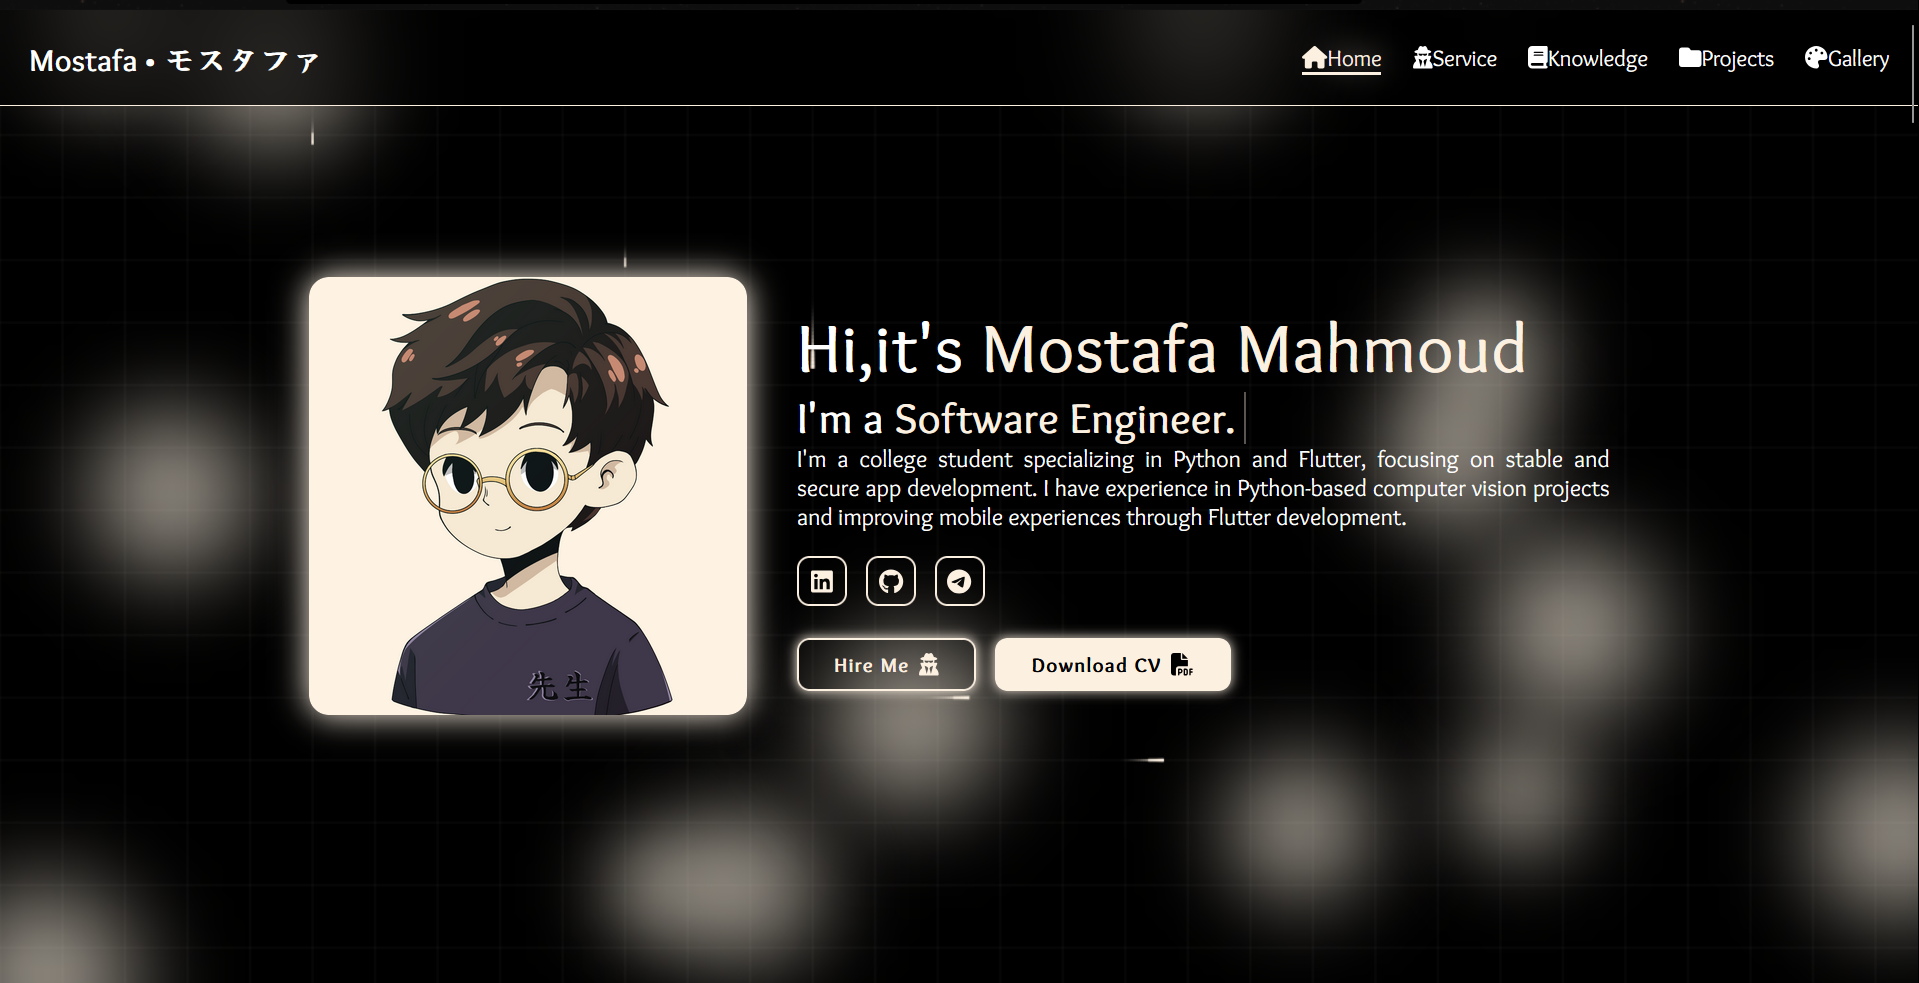
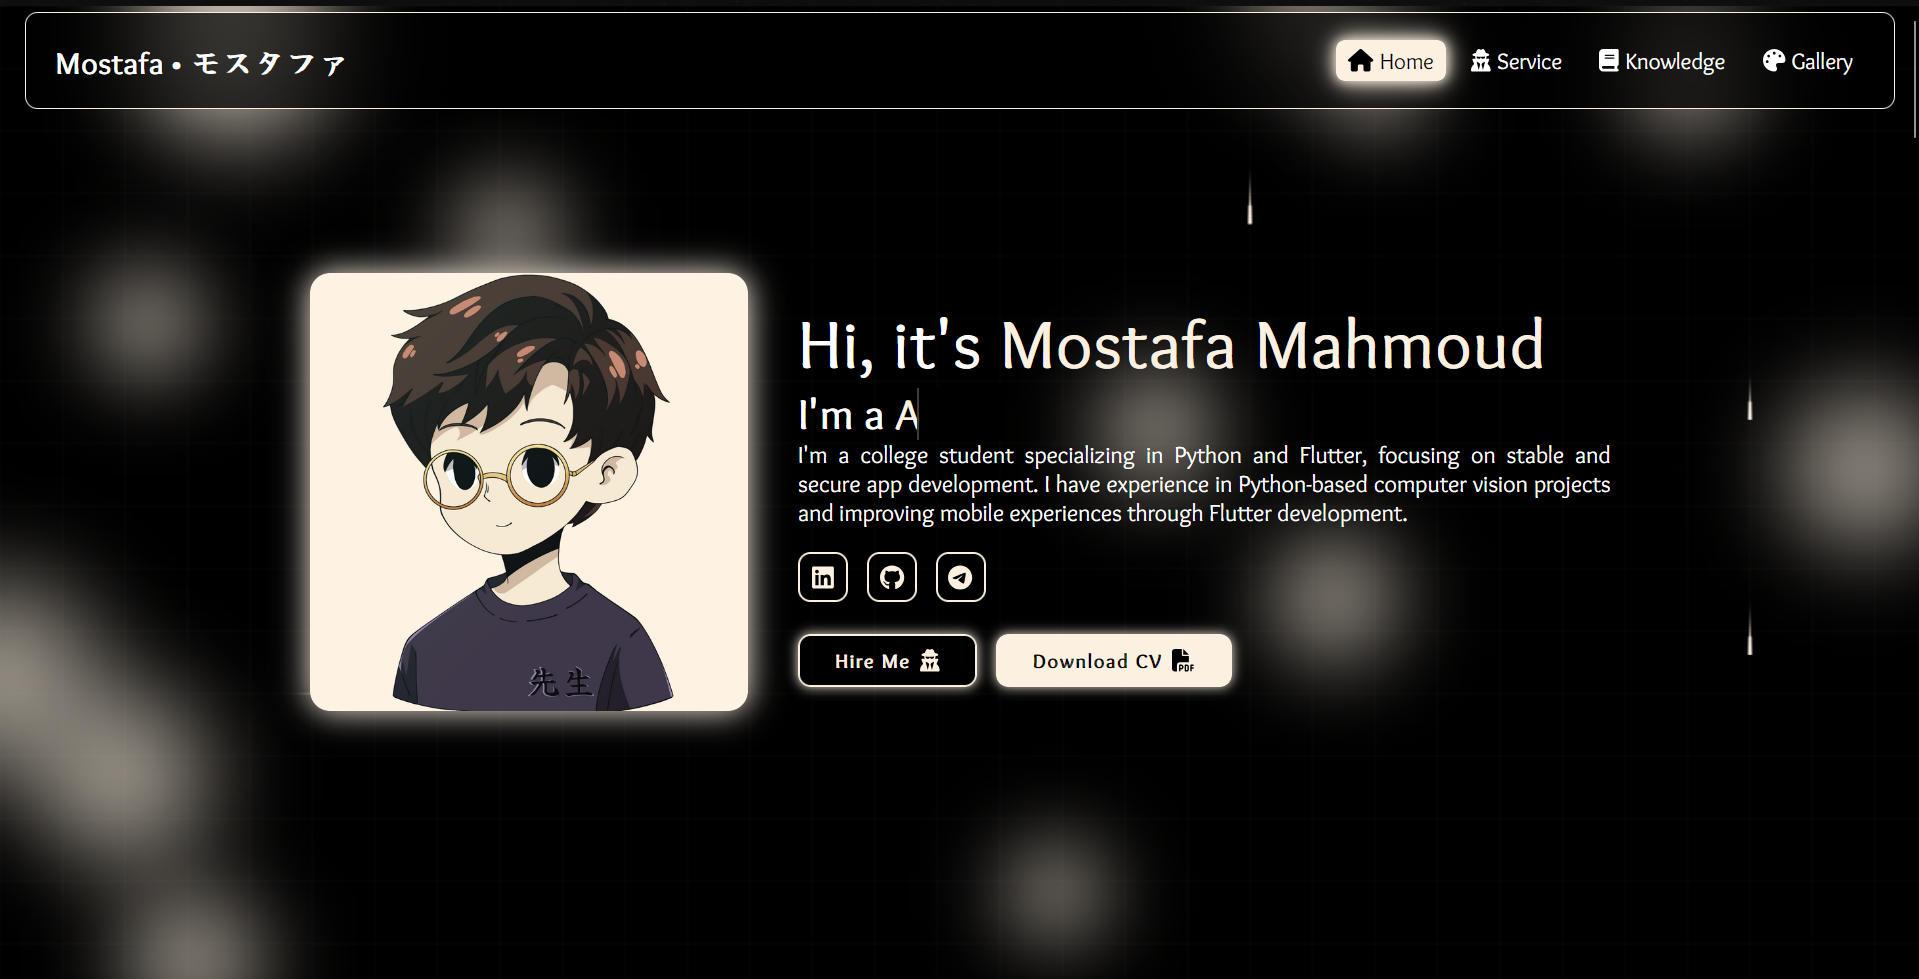
Design a New Responsive Header Component. Add New Artwork to My Gallery. Fix Error in Python Script: I forgot to delete some lines of code last time(●'◡'●), which overwrote the sensei-art.tsx file.

diff --git a/app/com/header/sensei-header.module.css b/app/com/header/sensei-header.module.css
@@ -1,23 +1,26 @@
-
 /*
  * sensei-header.module.css
  *@Author Mostafa Sensei106
- *@Description A responsive header component with a menu that highlights the active section of the page.
+ *@Description A modern silver-themed floating navbar with enhanced animations
  */
 
 .header {
     position: fixed;
-    top: 0;
-    left: 0;
-    width: 100%;
+    top: 0.5rem;
+    left: 50%;
+    transform: translateX(-50%);
+    width: calc(100% - 4rem);
+    max-width: 100%;
     padding: 2rem 1.5%;
     background: rgba(0, 0, 0, 0.7);
     backdrop-filter: blur(20px);
+    border-radius: 1rem;
     display: flex;
     justify-content: space-between;
     align-items: center;
     z-index: 100;
-    border-bottom: 1px solid  var(--main-color);
+    transition: all 0.4s cubic-bezier(0.68, -0.55, 0.27, 1.55);
+    border: 1px solid rgb(252, 240, 225);
 }
 
 .logo {
@@ -26,31 +29,67 @@
     color: var(--text-color);
     font-weight: 800;
     cursor: pointer;
-    transition: transform 0.5s ease;
-}
-
-.logo span {
-    color: var(--text-color);
+    transition: all 0.3s ease;
+    will-change: transform, text-shadow;
 }
 
 .logo:hover {
-    /*transform: scale(1.1);*/
-    text-shadow: 0 0 25px var(--main-color);
+    text-shadow: 0 0 30px var(--main-color), 0 0 10px var(--main-color);
+}
+
+.navbar {
+    display: flex;
+    align-items: center;
+    gap: 1rem;
 }
 
 .navbar a {
     font-size: 1.8rem;
     color: var(--text-color);
-    margin-left: 2.5rem;
+    padding: 0.5rem 1rem;
+    border-radius: 0.7rem;
     font-weight: 500;
-    transition: color 0.3s ease, border-bottom 0.3s ease;
+    transition: all 0.4s ease-in-out;
+    display: flex;
+    align-items: center;
+    gap: 0.5rem;
+    position: relative;
+    overflow: hidden;
+    will-change: background, color, box-shadow;
 }
 
-.navbar a.active,
-.navbar a:hover {
-    color: var(--main-color);
-    text-shadow: 0 0 25px var(--main-color);
-    border-bottom: 3px solid var(--main-color);
+.navbar a::before {
+    content: '';
+    position: absolute;
+    top: 0;
+    left: -100%;
+    width: 100%;
+    height: 100%;
+    background: linear-gradient(120deg, transparent, var(--main-color), transparent);
+    transition: left 0.4s ease-in-out;
+}
+
+.navbar a:hover::before {
+    left: 100%;
+}
+
+.navbar a:hover,
+.navbar a.active {
+    background: var(--main-color);
+    color: var(--bg-color);
+    box-shadow: 0 0 20px var(--main-color), 0 0 10px var(--main-color);
+}
+
+.navbar a .icon {
+    color: var(--text-color);
+    will-change: transform, color;
+    transition: transform 0.4s ease, color 0.4s ease;
+}
+
+.navbar a:hover .icon,
+.navbar a.active .icon {
+    transform: rotate(360deg);
+    color: var(--bg-color);
 }
 
 .MenuIcon {
@@ -101,7 +140,13 @@
     transform: rotate(-135deg);
 }
 
+
 @media (max-width: 994px) {
+    .header {
+        width: calc(100% - 2rem);
+        padding: 2rem 2%;
+    }
+
     .MenuIcon {
         display: block;
     }
@@ -110,28 +155,73 @@
         position: absolute;
         top: 100%;
         right: 0;
-        width: 40%;
-        border-left: 3px solid var(--main-color);
-        padding: 1rem 3%;
+        width: 100%;
+        border: 2px solid var(--main-color);
         background: rgba(0, 0, 0, 0.7);
-        border-top: 1px solid var(--main-color);
         backdrop-filter: blur(20px);
-        border-bottom-left-radius: 1rem;
+        border-radius: 1rem;
         display: none;
+        opacity: 0;
+        transform: translateY(-25px);
+        margin-top: 0.5rem;
+        transition: opacity 0.3s ease, transform 0.4s ease-in-out;
     }
 
     .navbar.active {
         display: block;
+        opacity: 1;
+        transform: translateY(0);
+        animation: slideIn 0.4s ease forwards;
     }
 
     .navbar a {
-        display: block;
-        font-size: 2rem;
-        margin: 3rem 0;
+        display: flex;
+        align-items: center;
+        font-size: 2.1rem;
+        margin: 2.5rem;
+        opacity: 0;
+        padding: 1rem;
+        transform: translateX(-20px);
+        transition: opacity 0.3s ease, transform 0.3s ease;
     }
 
-    .navbar:hover,
-    .navbar.active {
-        border-bottom: 0.3rem solid var(--main-color);
+    .navbar.active a {
+        opacity: 1;
+        transform: translateX(0);
+    }
+
+    .navbar.active a:nth-child(1) {
+        animation: slideInLeft 0.5s ease 0.1s forwards;
+    }
+    .navbar.active a:nth-child(2) {
+        animation: slideInLeft 0.5s ease 0.2s forwards;
+    }
+    .navbar.active a:nth-child(3) {
+        animation: slideInLeft 0.5s ease 0.3s forwards;
+    }
+    .navbar.active a:nth-child(4) {
+        animation: slideInLeft 0.5s ease 0.4s forwards;
+    }
+}
+
+@keyframes slideIn {
+    from {
+        opacity: 0;
+        transform: translateY(-20px);
+    }
+    to {
+        opacity: 1;
+        transform: translateY(0);
+    }
+}
+
+@keyframes slideInLeft {
+    from {
+        opacity: 0;
+        transform: translateX(-20px);
+    }
+    to {
+        opacity: 1;
+        transform: translateX(0);
     }
 }

diff --git a/app/com/header/sensei-header.tsx b/app/com/header/sensei-header.tsx
@@ -6,49 +6,29 @@ import {
     faHome,
     faUserSecret,
     faBook,
-    // faFolder,
     faPalette
 } from '@fortawesome/free-solid-svg-icons';
 import { IconProp } from '@fortawesome/fontawesome-svg-core';
 
-
-//**
-// @Author Mostafa Sensei106
-// @Description A responsive header component with a menu that highlights the active section of the page.
-//**
-
 /**
- * The main header component with a responsive menu.
+ * The main header component with a responsive menu and enhanced animations.
  * @returns The JSX Element for the header.
  */
 const SenseiHeader = (): JSX.Element => {
-    /**
-     * The state of the menu, whether it is open or closed.
-     */
     const [isMenuOpen, setIsMenuOpen] = useState<boolean>(false);
-
-    /**
-     * The state of the active section, which is the section that is currently in view.
-     */
     const [activeSection, setActiveSection] = useState<string>('Home');
 
-    /**
-     * Toggle the menu.
-     */
     const toggleMenu = (): void => {
         setIsMenuOpen((prevState) => !prevState);
     };
 
-    /**
-     * Handle the scroll event to determine the active section based on scroll position.
-     */
     const handleScroll = (): void => {
         const sections: Array<string> = [
             'Home',
             'Service',
             'Knowledge',
-            // 'Projects',
-            'Gallery'];
+            'Gallery'
+        ];
         const current: string | undefined = sections.find((section) => {
             const element = document.getElementById(section);
             if (element) {
@@ -79,7 +59,6 @@ const SenseiHeader = (): JSX.Element => {
 
     useEffect(() => {
         const handleResize = (): void => {
-            // Close the menu if the window is resized beyond the defined width
             if (window.innerWidth > 994 && isMenuOpen) {
                 setIsMenuOpen(false);
             }
@@ -89,12 +68,10 @@ const SenseiHeader = (): JSX.Element => {
         return () => window.removeEventListener('resize', handleResize);
     }, [isMenuOpen]);
 
-    // Mapping section names to their respective FontAwesome icons
     const sectionIcons: Record<string, IconProp> = {
         Home: faHome,
         Service: faUserSecret,
         Knowledge: faBook,
-        // Projects: faFolder,
         Gallery: faPalette,
     };
 
@@ -116,7 +93,10 @@ const SenseiHeader = (): JSX.Element => {
                 <span></span>
                 <span></span>
             </div>
-            <nav className={`${styles.navbar} ${isMenuOpen ? styles.active : ''}`}>
+            <nav
+                className={`${styles.navbar} ${isMenuOpen ? styles.active : ''}`}
+                aria-hidden={!isMenuOpen}
+            >
                 {Object.entries(sectionIcons).map(([section, icon]) => (
                     <a
                         key={section}

diff --git a/app/com/art_gallery/sensei-art.tsx b/app/com/art_gallery/sensei-art.tsx
@@ -1,20 +1,20 @@
 "use client";
-import React, { useState, useEffect, useMemo, useCallback } from "react";
+import React, {useState, useEffect, useMemo, useCallback} from "react";
 import Image from "next/image";
-import { motion } from "framer-motion";
-import { useInView } from "react-intersection-observer";
+import {motion} from "framer-motion";
+import {useInView} from "react-intersection-observer";
 import Lightbox from "yet-another-react-lightbox";
 import "yet-another-react-lightbox/styles.css";
 import styles from "./sensei-art.module.css";
 
-const ImageItem = ({ image, index, setOpen }) => {
+const ImageItem = ({image, index, setOpen}) => {
     const [ref, inView] = useInView({
         triggerOnce: true,
         threshold: 0.1,
     });
 
     const variants = {
-        hidden: { opacity: 0, y: 20 },
+        hidden: {opacity: 0, y: 20},
         visible: (i: number) => ({
             opacity: 1,
             y: 0,
@@ -62,8 +62,14 @@ function SenseiArt() {
         },
 
         {
+            src: "/Assets/art-gallery/Images/image_display/BFCAI.png",
+            thumb: "/Assets/art-gallery/Images/web/BFCAI.webp"
+        },
+
+        {
             src: "Assets/art-gallery/Images/image_display/Sensei_106_Spy.jpg",
-            thumb: "Assets/art-gallery/Images/web/Sensei_106_Spy.webp"        },
+            thumb: "Assets/art-gallery/Images/web/Sensei_106_Spy.webp"
+        },
 
         {
             src: "Assets/art-gallery/Images/image_display/Ice_Coffee_Team_Logo.png",
@@ -214,7 +220,7 @@ function SenseiArt() {
     }, [open, handleKeyDown]);
 
     const headerVariants = {
-        hidden: { opacity: 0, y: -50 },
+        hidden: {opacity: 0, y: -50},
         visible: {
             opacity: 1,
             y: 0,
@@ -226,7 +232,7 @@ function SenseiArt() {
     };
 
     const galleryVariants = {
-        hidden: { opacity: 0 },
+        hidden: {opacity: 0},
         visible: {
             opacity: 1,
             transition: {

diff --git a/app/image_optmization/image_optimizer.py b/app/image_optmization/image_optimizer.py
@@ -119,15 +119,6 @@ def main():
     print_message(f"Images have been optimized and saved to: {output_dir}", Fore.GREEN)
     print_message("The image paths file has been created successfully!", Fore.GREEN)
     print_message("Please copy 'sensei-art.txt' into 'app/com/art_gallery/sensei-art.tsx'", Fore.CYAN)
-
-    destination_path = os.path.join(base_dir, '../../app/com/art_gallery/sensei-art.tsx')
-    try:
-        shutil.copy2(output_text_path, destination_path)
-        print_message("The file has been automatically copied to 'sensei-art.tsx'!", Fore.GREEN, bold=True)
-    except Exception as e:
-        print_message(f"Unable to copy file automatically: {e}", Fore.YELLOW)
-        print_message("Please copy the file manually as instructed above.", Fore.YELLOW)
-
     print_message("Process completed successfully!", Fore.GREEN, bold=True)
 
 if __name__ == "__main__":
